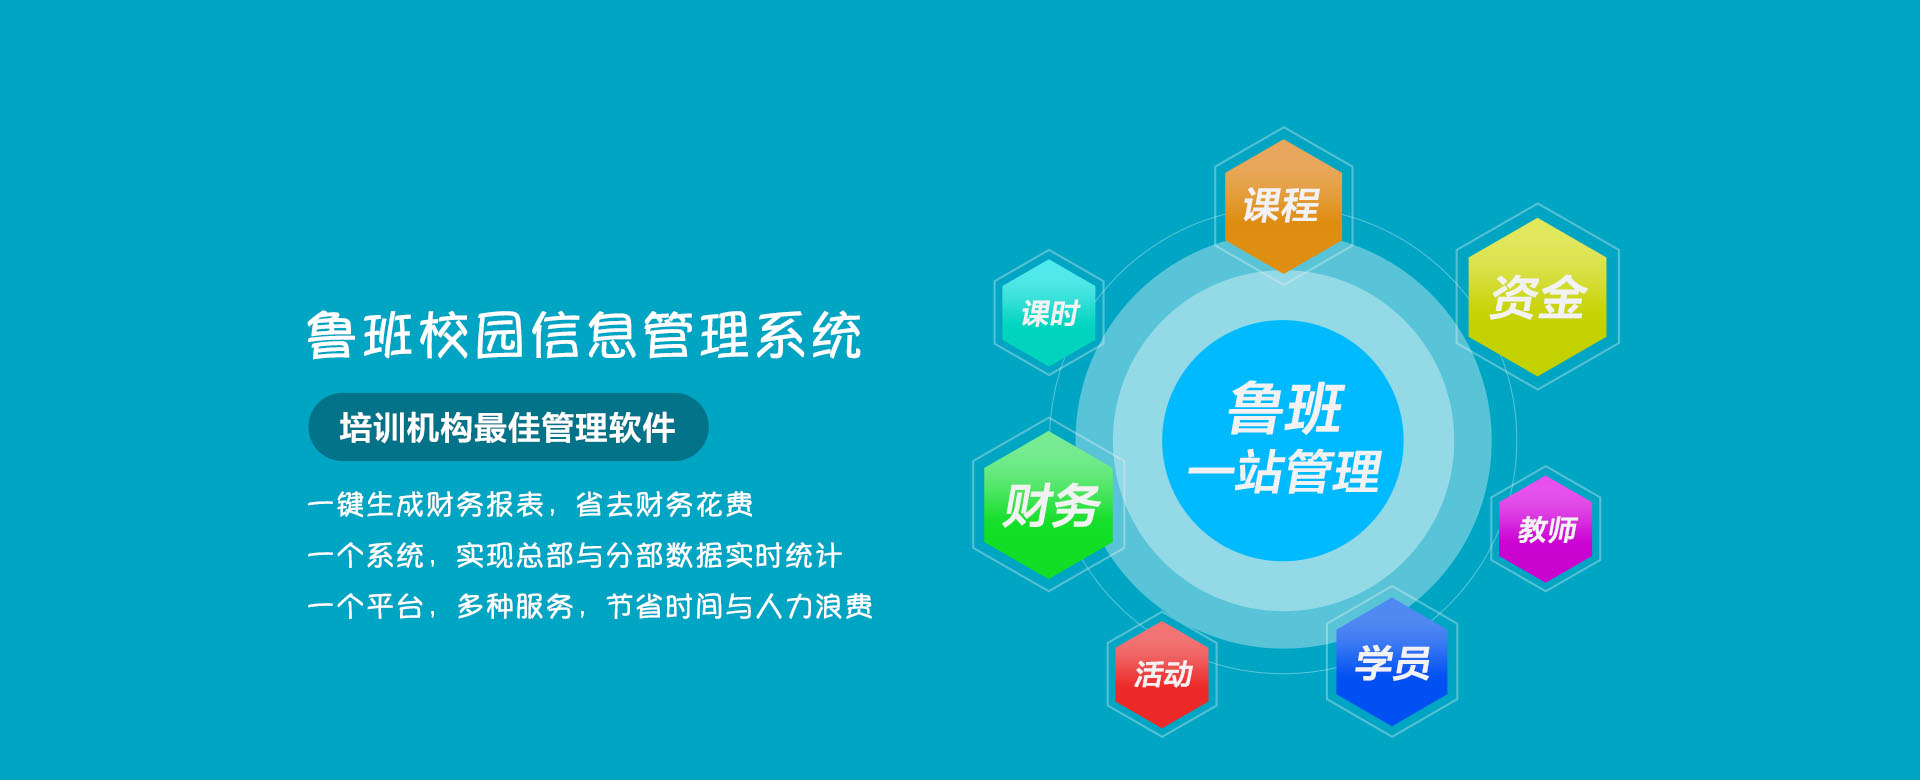
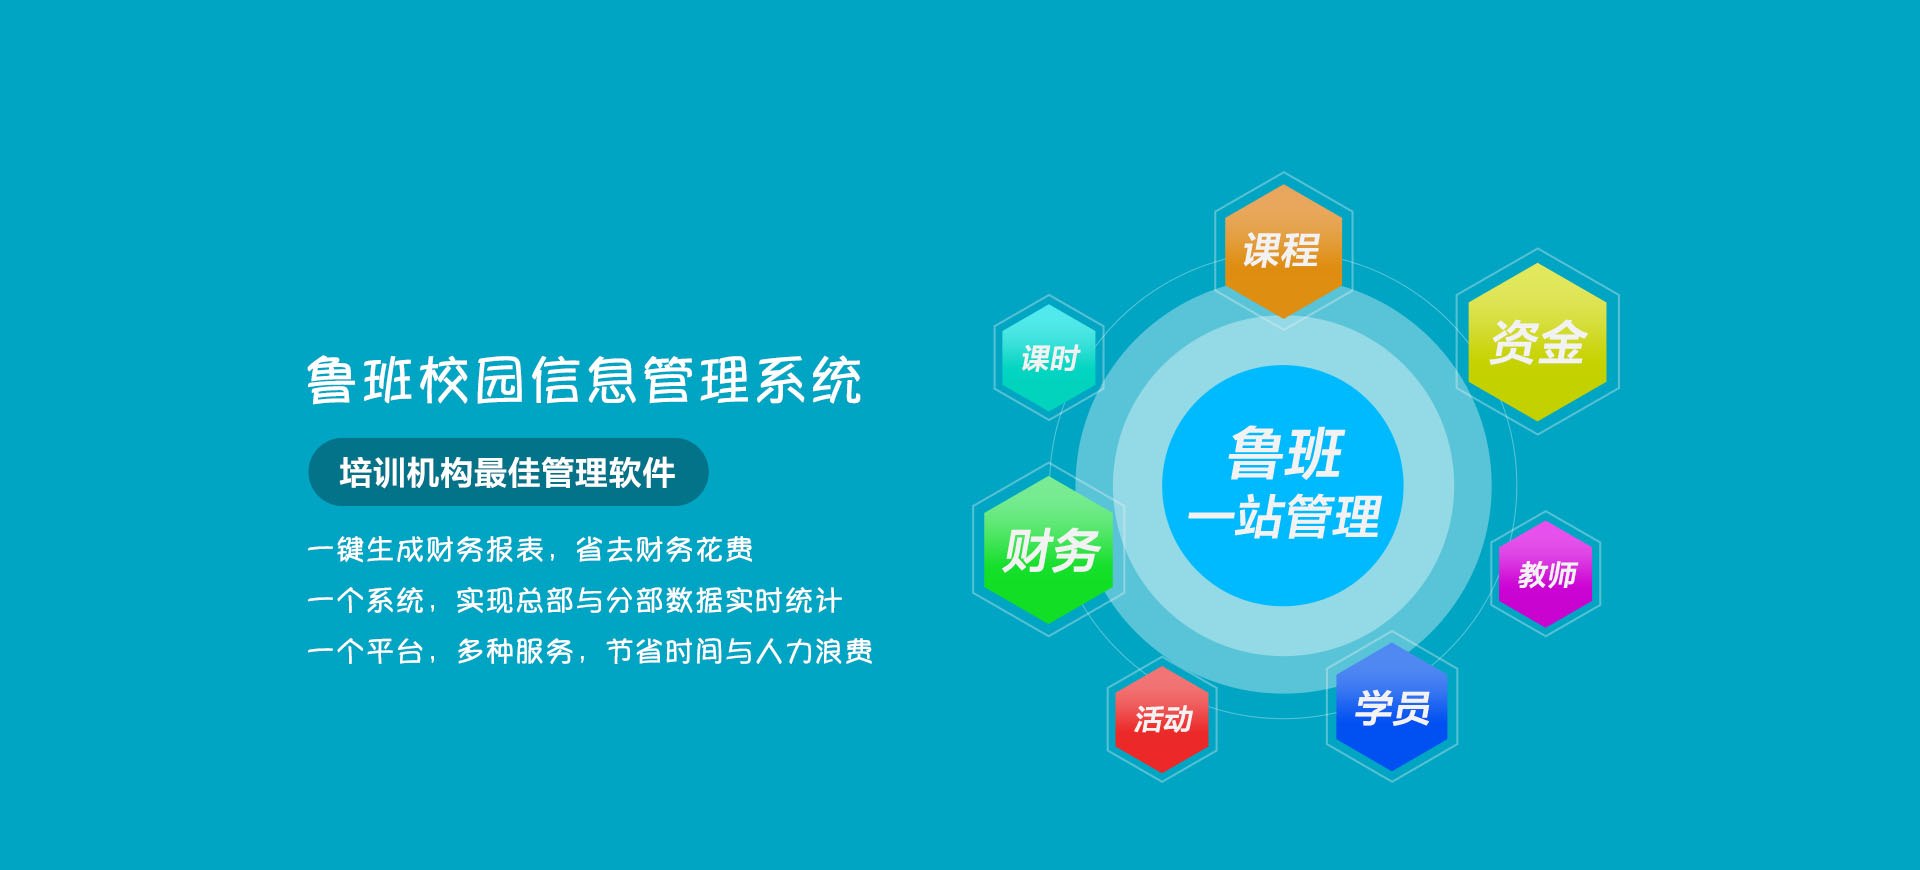
newindex

diff --git a/index.html b/index.html
@@ -100,10 +100,10 @@
 
                                 <ul class="nav navbar-nav navbar-center" data-in="fadeIn" data-out="fadeOut">
 									<li><a href="index.html">鲁班主页</a></li>
-									<li><a href="service.html">鲁班产品</a></li>
-									<li><a href="about.html">客户案例</a></li>
-									<li><a href="blog.html">关于我们</a></li>
-                                    <li><a href="contactus.html">帮助中心</a></li>
+									<li><a href="index.html">鲁班产品</a></li>
+									<li><a href="index.html">客户案例</a></li>
+									<li><a href="index.html">关于我们</a></li>
+                                    <li><a href="index.html">帮助中心</a></li>
                                 </ul>
 
                             </div><!-- /.navbar-collapse -->
@@ -237,14 +237,14 @@
             <!-- End Side Menu -->
 
         </nav> <!-- End off Nav -->
-
-
-
-                            
-                            
-                            
+                           <div class="item active">
+                            <!-- Slide Background -->
                             <img src="assets/images/slide-bg-01.jpg" alt="SeoPress Slider" />
-                        <!-- End of Slide -->
+                            <div class="bs-slider-overlay"></div>
+                           </div>
+       <!-- End of Slide -->
+                        
+                        
             <!-- Service Section -->
             <section id="service" class="service sections">
                 <div class="container">

diff --git a/assets/css/style.css b/assets/css/style.css
@@ -93,9 +93,8 @@ img {
 	max-width: 100%;
 	opacity: 1;
 	padding-right: 0px;
-	margin-right: 0px;
-	margin-left: 15px;
-	margin-top: 0px;
+	margin-left: auto;
+	margin-right: auto;
 }
 textarea,
 input[type="text"],
